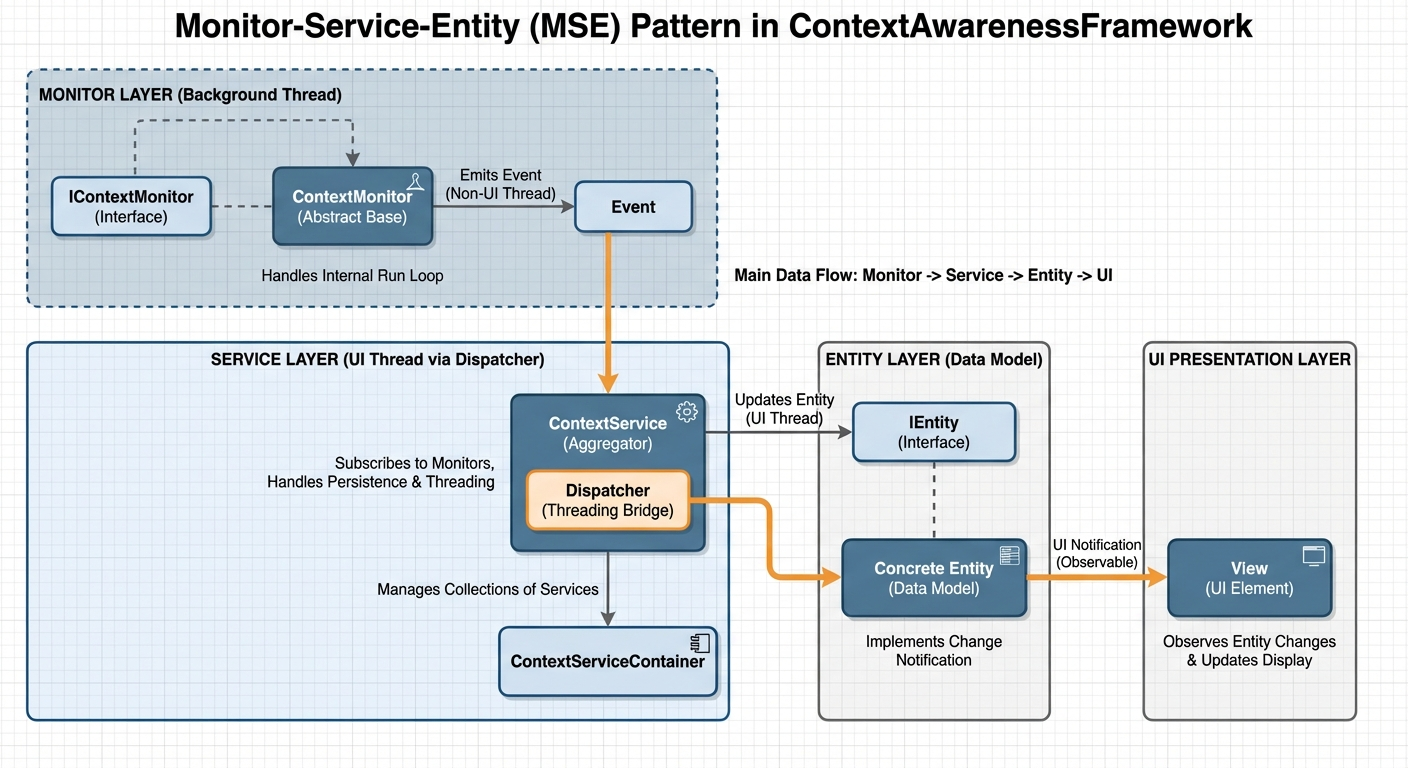
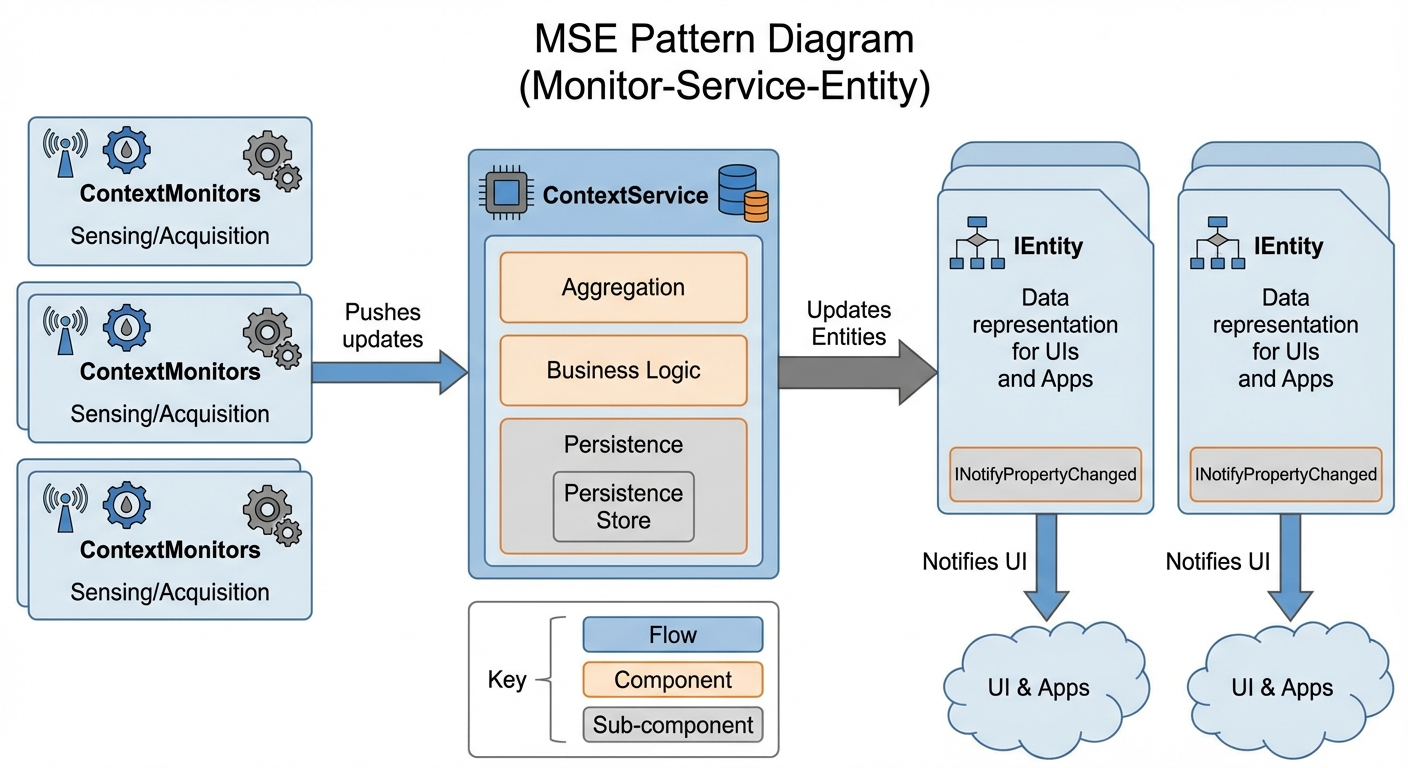
Updates documentation

diff --git a/MulticastTransportFramework/README.md b/MulticastTransportFramework/README.md
@@ -1,29 +1,40 @@
 # MulticastTransportFramework
 
-A high-level messaging framework built on top of `MulticastSocket`, providing JSON-based object serialization, type-based message routing, and a modern fluent API.
+**MulticastTransportFramework** implements a higher-level messaging protocol over UDP multicast.
 
-## Overview
-The **MulticastTransportFramework** abstracts raw socket communication into a structured, strongly-typed messaging system. It allows applications to send and receive POCO (Plain Old CLR Objects) without dealing with byte arrays, manual serialization, or envelope management.
+## Architecture
 
-**Key Features:**
-*   **Fluent Builder API:** guided configuration and initialization.
-*   **Strongly-Typed Handlers:** Generic handlers with automatic type mapping.
-*   **No Marker Interfaces:** Any class can be a message; no need to inherit from framework types.
-*   **Automatic Acknowledgements:** Optional auto-ack support for reliable messaging patterns.
-*   **Ordered Messaging:** Guaranteed sequential processing via an internal GateKeeper.
+*   **Fluent Builder**: Use `TransportBuilder` to configure and create a `TransportComponent`.
+*   **Strongly-Typed Messaging**: Generic `SendAsync<T>` methods handle internal serialization and routing via `[MessageType("id")]` attributes.
+*   **Binary Protocol**: Uses a custom binary format (`BinaryPacket`) to eliminate double serialization (JSON payload inside JSON envelope).
+    *   **Reduced Overhead**: Payload size reduced by ~66% compared to legacy JSON envelope.
+    *   **Compatibility**: Falls back to legacy JSON format if `Magic Byte` is not present, ensuring backward compatibility.
+*   **Security (AES-GCM)**:
+    *   **Modern Runtimes**: Uses `System.Security.Cryptography.AesGcm` (standard 2.1+) for authenticated encryption.
+    *   **Legacy Runtimes**: Falls back to `Aes` (CBC Mode) + HMAC for standard 2.0.
+    *   **Key Derivation**: Uses HKDF-like scheme to derive Integrity and Encryption keys from a single `SecurityKey`.
+*   **POCO Support**: Any class can be used as message content; no marker interface is required.
+*   **Diagnostic Transparency**: Uses `Microsoft.Extensions.Logging.ILogger` across both the transport and socket layers.
+*   **Auto-Discovery**: Source Generator automatically registers types with `[MessageType]` attribute (via `transport.RegisterDiscoveredMessages()`).
 
-## System Architecture
-
-### Class Diagram
 ![MulticastTransportFramework Class Diagram](assets/class_diagram.png)
 
-### Message Flow
 ![MulticastTransportFramework Flow Diagram](assets/transport_flow_diagram.png)
+
+## Core Logic
+1.  **Incoming Data**: `MulticastSocket` receives bytes into a **pooled buffer** (`ArrayPool<byte>`) to minimize GC pressure.
+2.  **Consumption**: `TransportComponent` consumes messages from the socket's `IAsyncEnumerable<SocketMessage>` stream.
+3.  **Deserialization**: `BinaryPacket.Deserialize` parses the byte stream directly.
+    *   **Polymorphism**: The `TransportComponent` resolves the concrete type of `MessageData` using the registered string ID.
+4.  **GateKeeper**: Optional mechanism that ensures sequential processing of messages.
+5.  **Dispatch**:
+    *   Strongly-typed handlers receive the data POCO and a `MessageContext`.
+    *   **Auto-Ack**: If enabled, an acknowledgement is sent automatically if requested.
 
 ## Usage
 
 ### 1. Define your Messages
-Decorate your message POCOs with the `[MessageType]` attribute to define their transport ID.
+Decorate your message POCOs with the `[MessageType]` attribute.
 
 ```csharp
 [MessageType("sensor.data")]
@@ -34,7 +45,6 @@ public class SensorData
 ```
 
 ### 2. Configure and Build
-Use the `TransportBuilder` to set up your network options, logging, and message handlers.
 
 ```csharp
 var options = MulticastSocketOptions.WideAreaNetwork("239.0.0.1", 5000);
@@ -42,70 +52,38 @@ var options = MulticastSocketOptions.WideAreaNetwork("239.0.0.1", 5000);
 var transport = new TransportBuilder()
     .WithMulticastOptions(options)
     .WithLogging(loggerFactory)
-    .WithLocalSource("MyDevice")
-    .WithAutoSendAcks(true)
-    .RegisterHandler<SensorData>((data, context) => 
-    {
-        Console.WriteLine($"Received: {data.Value} from {context.Source.ResourceName}");
-    })
+    .WithSecurityKey("SuperSecretKey") // Enables AES-GCM
+    .WithEncryption(true)
     .Build();
+
+// Auto-discover message types (Source Generator)
+transport.RegisterDiscoveredMessages();
+
+transport.RegisterHandler<SensorData>((data, context) =>
+{
+    Console.WriteLine($"Received: {data.Value}");
+});
 
 transport.Start();
 ```
 
-To enable ordered messaging (guaranteeing that messages are dispatched to handlers in the exact order they were assigned by the socket layer), set `EnforceOrdering` to `true` in the options:
-
-```csharp
-options.EnforceOrdering = true;
-```
-
-When enabled, the internal **GateKeeper** uses a buffering strategy and a recovery timeout (defaulting to 500ms) to handle out-of-order arrivals and sequence gaps.
-
 ### 3. Sending Messages
-Send any object directly. The framework handles the envelope and ID mapping via the attributes.
 
 ```csharp
-// Simple send
+// Simple send (Encrypted & Binary Serialized automatically)
 await transport.SendAsync(new SensorData { Value = 25.5 });
 
-// Send with options (e.g., request acknowledgement)
-var session = await transport.SendAsync(new SensorData { Value = 25.5 }, new SendOptions { RequestAck = true });
-
-session.OnAckReceived += (s, source) => Console.WriteLine($"Ack from {source.ResourceName}");
+// Send with acknowledgment request
+await transport.SendAsync(new SensorData { Value = 25.5 }, new SendOptions { RequestAck = true });
 ```
 
-### 4. Manual Acknowledgements
-If `AutoSendAcks` is disabled (the default), you can manually acknowledge messages using the `MessageContext`.
-
-```csharp
-transport.RegisterHandler<SensorData>(async (data, context) => 
-{
-    if (context.RequestAck)
-    {
-        await transport.SendAckAsync(context);
-    }
-});
-```
-
-## Key Concepts
-
-### TransportBuilder
-The entry point for the framework. It manages the assembly of the `TransportComponent` and handles JSON converter registration.
-
-### MessageContext
-A lightweight object passed to handlers that contains metadata about the message:
-- `MessageId`: Unique GUID of the message.
-- `Source`: Information about the sender.
-- `Timestamp`: When the message was sent.
-- `RequestAck`: Whether the sender expects a confirmation.
-
-### Async Processing
-The framework uses `IAsyncEnumerable` to process messages as a stream from the underlying `MulticastSocket`. This ensures that message processing is non-blocking and highly efficient.
-
-### Ordered Messaging (GateKeeper)
-UDP multicast does not guarantee packet order. The framework ensures that messages are dispatched to handlers in the exact order they were assigned by the socket layer. The internal **GateKeeper** uses a buffering strategy and a recovery timeout (defaulting to 500ms) to handle out-of-order arrivals and sequence gaps, ensuring robustness against packet loss while maintaining state consistency.
+## Internal Components
+*   **`TransportBuilder`**: Primary entry point.
+*   **`TransportComponent`**: Orchestrator.
+*   **`MessageContext`**: Metadata (Source, Timestamp, Ack).
+*   **`BinaryPacket`**: Handles the binary wire format.
 
 ## Dependencies
 - `MulticastSocket`
-- `Newtonsoft.Json`
+- `System.Text.Json`
 - `Microsoft.Extensions.Logging.Abstractions`

diff --git a/MulticastSocket/README.md b/MulticastSocket/README.md
@@ -1,22 +1,29 @@
 # MulticastSocket
 
-A lightweight .NET wrapper around `System.Net.Sockets.Socket` to simplify multicast UDP communication with a modern, fluent API.
+**MulticastSocket** is the foundational networking library for the Ubicomp.Utils.NET solution. It wraps standard .NET UDP sockets to provide specific multicast capabilities with a modern, fluent API.
 
-## Overview
-The **MulticastSocket** library provides a clean, asynchronous interface for joining multicast groups, sending byte arrays, and receiving data. It abstracts raw socket complexity while ensuring strict message ordering via sequence IDs.
+## Key Components
+*   **`MulticastSocketBuilder`**: The primary entry point for configuration. Use this to set options, filters, and callbacks, and now supports `WithLogging` for diagnostic transparency.
+*   **`MulticastSocket`**: The core engine. Handles socket creation, binding, joining multicast groups, and async I/O.
+    *   *Instantiation*: Via `MulticastSocketBuilder`.
+    *   *Callbacks*: Uses strongly-typed `Action` delegates (`OnMessageReceived`, `OnError`, `OnStarted`).
+    *   *Reactive Streams*: Provides `GetMessageStream()` which returns an `IAsyncEnumerable<SocketMessage>` for modern streaming processing.
+*   **`SocketMessage`**: Represents a received packet with data, sequence ID, and timestamp.
+    *   **Pooled Buffers**: Use `IDisposable` pattern to return underlying buffers to `ArrayPool<byte>.Shared` to minimize GC allocations.
+*   **`SocketErrorContext`**: Provides details about runtime exceptions.
 
-## Class Diagram
+## Diagrams
 ![MulticastSocket Class Diagram](assets/class_diagram.png)
 
-## Message Flow
 ![MulticastSocket Message Flow](assets/message_flow_diagram.png)
 
-## Features
-- **Fluent Builder API**: guided setup for network options and callbacks.
-- **Reactive Streams**: Provides `GetMessageStream()` for modern, non-blocking message processing via `IAsyncEnumerable`.
-- **Strongly-Typed Callbacks**: Legacy `Action` based events for messages, errors, and status.
-- **Ordered Metadata**: Every message carries a `ArrivalSequenceId` and `Timestamp`.
-- **Cross-Platform**: Handles platform-specific socket options automatically.
+## Implementation Details
+*   **Threading**: Incoming messages are offloaded to the `ThreadPool` before firing callbacks and pushing to the message stream. This ensures the receive loop remains responsive.
+*   **Diagnostics**: Built-in support for `ILogger` provides granular insights into socket lifecycle, interface joining, and error conditions.
+*   **Async I/O**: Supports modern Task-based sending via `SendAsync`, wrapping the internal Begin/End pattern for high performance.
+*   **Buffer Management**: Uses `ArrayPool<byte>` to rent buffers for incoming messages. This significantly reduces memory allocations under high load.
+*   **Sequence ID**: Every received message is assigned a consecutive ID used by higher layers (e.g., `TransportComponent`) to maintain order.
+*   **Socket Options**: Sets `ReuseAddress` (SO_REUSEADDR) to allow multiple apps to bind the same port on the same machine.
 
 ## Usage
 
@@ -28,6 +35,7 @@ using Ubicomp.Utils.NET.Sockets;
 
 var socket = new MulticastSocketBuilder()
     .WithLocalNetwork(port: 5000)
+    .WithLogging(loggerFactory)
     .Build();
 
 socket.StartReceiving();
@@ -36,22 +44,9 @@ socket.StartReceiving();
 await foreach (var msg in socket.GetMessageStream(cts.Token))
 {
     Console.WriteLine($"Received {msg.Data.Length} bytes. Seq: {msg.ArrivalSequenceId}");
+    // Note: msg.Dispose() is called automatically if you use the stream in a way that respects lifetime,
+    // but explicit disposal is good practice if buffering.
 }
-```
-
-### Initialization & Receiving (Callbacks)
-You can also use the legacy callback-based approach.
-
-```csharp
-var socket = new MulticastSocketBuilder()
-    .WithLocalNetwork(port: 5000)
-    .OnMessageReceived(msg => 
-    {
-        Console.WriteLine($"Received {msg.Data.Length} bytes. Seq: {msg.ArrivalSequenceId}");
-    })
-    .Build();
-
-socket.StartReceiving();
 ```
 
 ### Sending Messages
@@ -64,25 +59,6 @@ await socket.SendAsync(data);
 await socket.SendAsync("Hello Multicast!");
 ```
 
-### Advanced Configuration
-Fine-tune behavior via `MulticastSocketOptions`:
-
-```csharp
-var options = MulticastSocketOptions.WideAreaNetwork("239.0.0.2", 5000, ttl: 2);
-options.ReceiveBufferSize = 65536;
-options.InterfaceFilter = addr => IPAddress.IsLoopback(addr);
-
-using var socket = new MulticastSocketBuilder()
-    .WithOptions(options)
-    .OnMessageReceived(msg => { /* ... */ })
-    .Build();
-```
-
-## Implementation Details
-- **Threading**: Callbacks are dispatched on the `ThreadPool` to keep the receive loop responsive.
-- **Sequence Management**: A monotonically increasing ID is assigned to each packet upon arrival.
-- **Interface Management**: Automatically joins all valid multicast-capable IPv4 interfaces unless a filter is provided.
-
 ## Dependencies
-- `System.Net`
 - `System.Net.Sockets`
+- `Microsoft.Extensions.Logging.Abstractions`

diff --git a/README.md b/README.md
@@ -14,11 +14,13 @@ The top layer implements the **Monitor-Service-Entity (MSE)** pattern.
 - **ContextMonitors** collect raw data from sensors or external APIs.
 - **ContextServices** aggregate monitor data, implement business logic, and handle persistence.
 - **IEntities** represent the context data models, providing thread-safe change notifications.
+*Note: This layer is a pure .NET Standard library and does not depend on specific UI frameworks (WPF/MAUI). UI marshalling should be handled by the consumer.*
 
 ### 2. MulticastTransportFramework
 The middle layer provides a structured messaging protocol over UDP multicast.
-- **TransportComponent**: The central orchestrator.
-- **Serialization**: Automated JSON serialization/deserialization with polymorphic support using `[MessageType("id")]` attributes.
+- **TransportComponent**: The central orchestrator using a lock-free actor model.
+- **Serialization**: High-performance JSON serialization using `System.Text.Json`.
+- **Security**: Built-in AES-GCM encryption and HMAC-SHA256 integrity signing.
 - **Reactive Processing**: Uses `IAsyncEnumerable` streams for efficient, non-blocking message handling.
 - **Ordering (GateKeeper)**: Ensures messages are processed in the exact order they were received, even in asynchronous environments.
 - **Reliability (Ack)**: Optional acknowledgement-based sessions for reliable message delivery.
@@ -27,9 +29,10 @@ The middle layer provides a structured messaging protocol over UDP multicast.
 ### 3. MulticastSocket
 The foundational layer that wraps standard .NET UDP sockets.
 - **Reactive Streams**: Provides `GetMessageStream()` which returns an `IAsyncEnumerable<SocketMessage>`.
+- **Memory Efficiency**: Uses `ArrayPool<byte>` for zero-allocation buffer management where possible.
 - **Group Management**: Simplified joining and leaving of multicast groups.
 - **Sequencing**: Automatically assigns sequence numbers to incoming packets for higher-level ordering.
-- **Performance**: Optimized async I/O and buffer management.
+- **Performance**: Optimized async I/O.
 
 ## Project Documentation
 *   [**MulticastSocket**](MulticastSocket/README.md): Low-level multicast networking wrapper.
@@ -42,12 +45,11 @@ The foundational layer that wraps standard .NET UDP sockets.
 3.  **Transport Processing**: The JSON is deserialized into a typed `TransportMessage` based on its attribute-defined ID.
 4.  **Ordered Dispatch**: The `GateKeeper` holds the message until its sequence ID is next, then dispatches it to registered handlers.
 5.  **Context Update**: A `ContextService` (acting as a listener) receives the message and updates its `IEntity` state.
-6.  **UI Notification**: The `ContextService` uses a captured `Dispatcher` to safely notify UI components of the change.
 
 ## Modernization Status
 This project targets **.NET Standard 2.0** for core libraries and **.NET 8.0** for applications and tests.
 - **Asynchronous**: Fully utilizes `IAsyncEnumerable`, `Channels`, and `Task`-based patterns.
-- **Serialization**: `Newtonsoft.Json` with custom polymorphic converters.
+- **Serialization**: `System.Text.Json` (v8.0.5+).
 - **Logging**: `Microsoft.Extensions.Logging` (Version 8.0.x).
 - **Dependencies**: Managed via NuGet.
 
@@ -94,11 +96,11 @@ This project targets **.NET Standard 2.0** for core libraries and **.NET 8.0** f
 4.  **Format Code**: `dotnet format`
 
 ## Contribution Guidelines
-*   **Do NOT push directly to the `master` branch.** 
+*   **Do NOT push directly to the `master` branch.**
 *   Always create a feature branch and submit a Pull Request.
 
 ## Contribution Guidelines
-*   **Do NOT push directly to the `master` branch.** 
+*   **Do NOT push directly to the `master` branch.**
 *   Always create a feature branch and submit a Pull Request.
 
 ---

diff --git a/MulticastTransportFramework/GEMINI.md b/MulticastTransportFramework/GEMINI.md
@@ -5,17 +5,23 @@
 
 *   **Fluent Builder**: Use `TransportBuilder` to configure and create a `TransportComponent`.
 *   **Strongly-Typed Messaging**: Generic `SendAsync<T>` methods handle internal serialization and routing via `[MessageType("id")]` attributes.
+*   **Binary Protocol**: Uses a custom binary format (`BinaryPacket`) to eliminate double serialization (JSON payload inside JSON envelope).
+    *   **Reduced Overhead**: Payload size reduced by ~66% compared to legacy JSON envelope.
+    *   **Compatibility**: Falls back to legacy JSON format if `Magic Byte` is not present, ensuring backward compatibility.
+*   **Security (AES-GCM)**:
+    *   **Modern Runtimes**: Uses `System.Security.Cryptography.AesGcm` (standard 2.1+) for authenticated encryption.
+    *   **Legacy Runtimes**: Falls back to `Aes` (CBC Mode) + HMAC for standard 2.0.
+    *   **Key Derivation**: Uses HKDF-like scheme to derive Integrity and Encryption keys from a single `SecurityKey`.
 *   **POCO Support**: Any class can be used as message content; no marker interface is required.
-*   **Serialization**: Uses `System.Text.Json` for serialization and efficient polymorphic deserialization.
 *   **Diagnostic Transparency**: Uses `Microsoft.Extensions.Logging.ILogger` across both the transport and socket layers.
-*   **Message Routing**: Dispatches messages to strongly-typed handlers based on their string ID defined in the `MessageTypeAttribute`.
+*   **Auto-Discovery**: Source Generator automatically registers types with `[MessageType]` attribute (via `transport.RegisterDiscoveredMessages()`).
 
 ## Core Logic
-1.  **Incoming Data**: `MulticastSocket` receives bytes and pushes them into an internal `Channel`.
+1.  **Incoming Data**: `MulticastSocket` receives bytes into a **pooled buffer** (`ArrayPool<byte>`) to minimize GC pressure.
 2.  **Consumption**: `TransportComponent` consumes messages from the socket's `IAsyncEnumerable<SocketMessage>` stream.
-3.  **Deserialization**: `System.Text.Json` deserializes the UTF-8 string into a `TransportMessage` envelope.
-    *   **Polymorphism**: The `TransportComponent` resolves the concrete type of `MessageData` (from `JsonElement`) using the registered string ID.
-4.  **GateKeeper**: Optional mechanism (controlled by `EnforceOrdering` in options) that ensures sequential processing of messages, preserving the order assigned by the socket layer.
+3.  **Deserialization**: `BinaryPacket.Deserialize` parses the byte stream directly.
+    *   **Polymorphism**: The `TransportComponent` resolves the concrete type of `MessageData` using the registered string ID.
+4.  **GateKeeper**: Optional mechanism that ensures sequential processing of messages.
 5.  **Dispatch**:
     *   Strongly-typed handlers receive the data POCO and a `MessageContext`.
     *   **Auto-Ack**: If enabled, an acknowledgement is sent automatically if requested.

diff --git a/MulticastSocket/GEMINI.md b/MulticastSocket/GEMINI.md
@@ -10,13 +10,14 @@
     *   *Callbacks*: Uses strongly-typed `Action` delegates (`OnMessageReceived`, `OnError`, `OnStarted`).
     *   *Reactive Streams*: Provides `GetMessageStream()` which returns an `IAsyncEnumerable<SocketMessage>` for modern streaming processing.
 *   **`SocketMessage`**: Represents a received packet with data, sequence ID, and timestamp.
+    *   **Pooled Buffers**: Use `IDisposable` pattern to return underlying buffers to `ArrayPool<byte>.Shared` to minimize GC allocations.
 *   **`SocketErrorContext`**: Provides details about runtime exceptions.
 
 ## Implementation Details
 *   **Threading**: Incoming messages are offloaded to the `ThreadPool` before firing callbacks and pushing to the message stream. This ensures the receive loop remains responsive.
 *   **Diagnostics**: Built-in support for `ILogger` provides granular insights into socket lifecycle, interface joining, and error conditions.
 *   **Async I/O**: Supports modern Task-based sending via `SendAsync`, wrapping the internal Begin/End pattern for high performance and better developer experience.
-*   **Buffer Management**: A `StateObject` class manages internal buffers. Data is copied into `SocketMessage` objects before being passed to consumers.
+*   **Buffer Management**: Uses `ArrayPool<byte>` to rent buffers for incoming messages. This significantly reduces memory allocations under high load.
 *   **Sequence ID**: Every received message is assigned a consecutive ID used by higher layers (e.g., `TransportComponent`) to maintain order.
 *   **Socket Options**: Sets `ReuseAddress` (SO_REUSEADDR) to allow multiple apps to bind the same port on the same machine.
 

diff --git a/GEMINI.md b/GEMINI.md
@@ -21,11 +21,14 @@ The solution is structured into several key projects:
 *   **`SampleApp`**: Demonstrates the usage of the libraries.
 *   **`ContextAwarenessFramework.TestApp`**: Specific test application for the context framework.
 *   **`Multicast.TestApp`**: Specific test application for multicast functionality.
-*   **`Tests`**: Unit tests for the solution (likely using MSTest, NUnit, or xUnit - check `Ubicomp.Utils.NET.Tests.csproj`).
+*   **`Tests`**: Unit tests for the solution.
+
+### Development Tools (Target: `netstandard2.0`)
+*   **`Generators`**: Roslyn Source Generator for auto-discovering message types.
 
 ### External Dependencies
 *   All dependencies are managed via NuGet. The project is aligned with **.NET 8.0** standards (using version `8.0.0` or later for Microsoft extensions, with `System.Text.Json` at `8.0.5` for security).
-*   Key libraries: `Microsoft.Extensions.Logging`, `System.Threading.Channels`, `Microsoft.Bcl.AsyncInterfaces`, `Newtonsoft.Json`.
+*   Key libraries: `Microsoft.Extensions.Logging`, `System.Threading.Channels`, `Microsoft.Bcl.AsyncInterfaces`, `System.Text.Json`.
 
 ## Development Workflow
 
@@ -68,3 +71,5 @@ All commands should be run from the repository root.
 ## Important Files
 *   `Ubicomp.Utils.NET.sln`: The main solution file.
 *   `README.md`: Basic instructions and authorship.
+*   `MulticastSocket/README.md`: Detailed documentation for the socket layer.
+*   `MulticastTransportFramework/README.md`: Detailed documentation for the transport layer.

diff --git a/ContextAwarenessFramework/GEMINI.md b/ContextAwarenessFramework/GEMINI.md
@@ -8,8 +8,9 @@ The framework follows a **Monitor-Service-Entity** pattern.
 *   **IEntity**: The data model.
 
 ## Threading Model
-*   **Dispatcher**: `ContextService` captures `Dispatcher.CurrentDispatcher` upon instantiation.
-*   **Marshalling**: When `UpdateMonitorReading` is called (usually from a background Monitor thread), the Service marshals the call to the UI thread using the captured Dispatcher. This allows safe modification of `ObservableCollection`s bound to UIs.
+*   **Background Execution**: `ContextMonitor` instances typically run on their own threads (especially for `Interval` or `Continuous` types) to avoid blocking.
+*   **Thread Safety**: `ContextService` uses internal locking (`lock`) to ensure safe state updates and persistence.
+*   **UI Marshalling**: This framework is a pure .NET Standard library. It does **not** handle UI thread marshalling (e.g., `Dispatcher`). Consumers (WPF, MAUI apps) must handle marshalling when updating UI-bound collections from `ContextService` events.
 
 ## Persistence
 `ContextService` includes a template method pattern for persistence:

diff --git a/ContextAwarenessFramework/README.md b/ContextAwarenessFramework/README.md
@@ -29,7 +29,7 @@ Abstract base class for data producers.
 ### ContextService
 Abstract base class for data consumers/managers.
 - **Data Aggregation**: Subscribes to one or more Monitors to process raw data into high-level context.
-- **Threading (UI Safety)**: The service captures the `Dispatcher` from the thread that created it. When updating state, it marshals calls back to this Dispatcher, ensuring that `ObservableCollection`s and other UI-bound properties can be updated safely from background monitor threads.
+- **Threading**: Services are designed to be thread-safe but do **not** automatically marshal events to the UI thread. Consumers must handle cross-thread updates when binding to UI elements.
 - **Persistence**: Built-in support for multiple persistence patterns:
     - `Periodic`: Saves state at a regular interval.
     - `OnRequest`: Saves state only when explicitly called.
